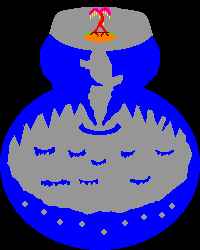
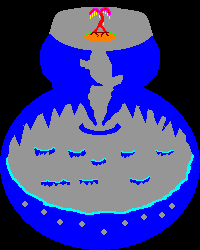
Mire Biome changes

diff --git a/Worldgeneration/ChaosBiome.cs b/Worldgeneration/ChaosBiome.cs
@@ -34,7 +34,8 @@ namespace AAMod.Worldgeneration
             colorToTile[new Color(255, 0, 0)] = mod.TileType("AbyssWood");
             colorToTile[new Color(128, 0, 0)] = mod.TileType("AbyssWoodSolid");
             colorToTile[new Color(255, 255, 0)] = mod.TileType("AbyssVines");
-            colorToTile[new Color(255, 0, 255)] = mod.TileType("AbyssLeaves");
+            colorToTile[new Color(0, 255, 255)] = mod.TileType("MireGrass");
+            colorToTile[new Color(128, 0, 0)] = mod.TileType("AbyssWoodSolid");
             colorToTile[new Color(150, 150, 150)] = -2; //turn into air
             colorToTile[Color.Black] = -1; //don't touch when genning
 
@@ -219,14 +220,14 @@ namespace AAMod.Worldgeneration
 			{
                 new Modifiers.OnlyTiles(new ushort[]{ TileID.Grass, TileID.CorruptGrass, TileID.FleshGrass }), //ensure we only replace the intended tile (in this case, grass)
 				new Modifiers.RadialDither(biomeRadius - 5, biomeRadius), //this provides the 'blending' on the edges (except the top)
-				new BaseMod.SetModTile(tileGrass, true, true) //actually place the tile
+				new SetModTile(tileGrass, true, true) //actually place the tile
 			}));
-            /* WorldUtils.Gen(newOrigin, new Shapes.Circle(biomeRadius), Actions.Chain(new GenAction[] //dirt...
-             {
-                 new Modifiers.OnlyTiles(new ushort[]{ TileID.Dirt }),
+            WorldUtils.Gen(newOrigin, new Shapes.Circle(biomeRadius), Actions.Chain(new GenAction[] //dirt...
+            {
+                new Modifiers.OnlyTiles(new ushort[] { TileID.SnowBlock }),
                  new Modifiers.RadialDither(biomeRadius - 5, biomeRadius),
-                 new BaseMod.SetModTile(tileDirt, true, true)
-             }));*/
+                new BaseMod.SetModTile(tileGrass, true, true)
+            }));
             WorldUtils.Gen(newOrigin, new Shapes.Circle(biomeRadius), Actions.Chain(new GenAction[] //and stone.
 			{
                 new Modifiers.OnlyTiles(new ushort[]{ TileID.Stone, TileID.Ebonstone, TileID.Crimstone, TileID.Pearlstone }),
@@ -237,7 +238,7 @@ namespace AAMod.Worldgeneration
 			{
                 new Modifiers.OnlyTiles(new ushort[]{ TileID.IceBlock, TileID.CorruptIce, TileID.FleshIce }),
                 new Modifiers.RadialDither(biomeRadius - 5, biomeRadius),
-                new BaseMod.SetModTile(tileIce, true, true)
+                new BaseMod.SetModTile(tileStone, true, true)
             }));
             WorldUtils.Gen(newOrigin, new Shapes.Circle(biomeRadius), Actions.Chain(new GenAction[] //sand...
 			{
@@ -581,7 +582,7 @@ namespace AAMod.Worldgeneration
             Dictionary<Color, int> colorToTile = new Dictionary<Color, int>();
             colorToTile[new Color(255, 0, 0)] = mod.TileType("RottedDynastyWoodS");
             colorToTile[new Color(0, 255, 0)] = mod.TileType("RottedPlatform");
-            colorToTile[new Color(0, 0, 255)] = TileID.Rope;
+            //colorToTile[new Color(0, 0, 255)] = TileID.Rope;
             colorToTile[new Color(0, 255, 255)] = mod.TileType("CthulhuPortal");
             colorToTile[new Color(255, 255, 0)] = TileID.Sand;			
             colorToTile[new Color(150, 150, 150)] = -2;
@@ -598,13 +599,13 @@ namespace AAMod.Worldgeneration
             colorToWall[new Color(150, 150, 150)] = -2;
             colorToWall[Color.Black] = -1; //don't touch when genning				
 
-            TexGen gen = BaseWorldGenTex.GetTexGenerator(mod.GetTexture("Worldgeneration/BOTE"), colorToTile, mod.GetTexture("Worldgeneration/BOTEWalls"), colorToWall, mod.GetTexture("Worldgeneration/BOTEWater"));
+            TexGen gen = BaseWorldGenTex.GetTexGenerator(mod.GetTexture("Worldgeneration/Ship"), colorToTile, mod.GetTexture("Worldgeneration/ShipWalls"), colorToWall, mod.GetTexture("Worldgeneration/ShipWater"));
 
 			int newOriginX = origin.X - (gen.width / 2);
 			int newOriginY = origin.Y - (gen.height / 2) + 10;
             gen.Generate(newOriginX, newOriginY, true, true);
             
-            WorldGen.PlaceChest(newOriginX + 130, newOriginY + 102, (ushort)mod.TileType("SunkenChest"), true);
+            //WorldGen.PlaceChest(newOriginX + 130, newOriginY + 102, (ushort)mod.TileType("SunkenChest"), true);
             return true;
         }
     }
